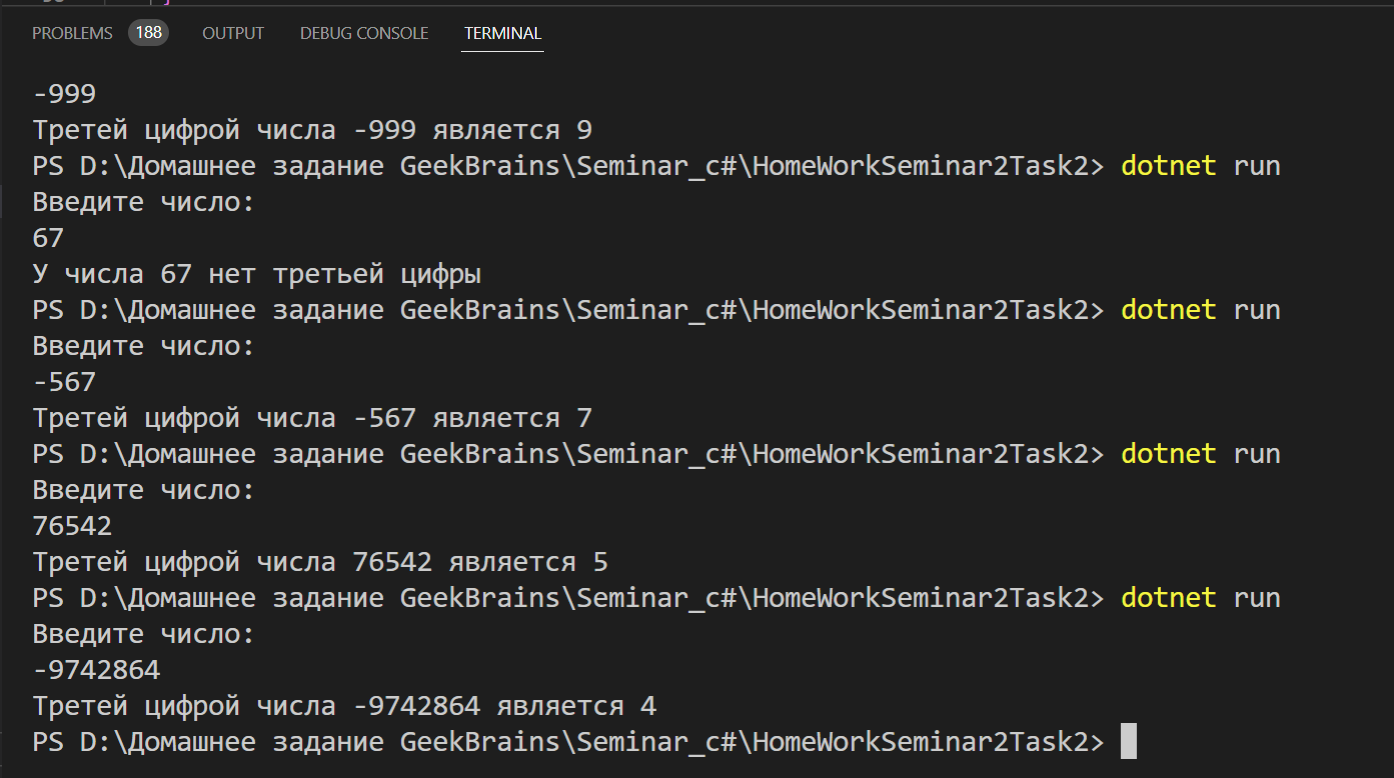
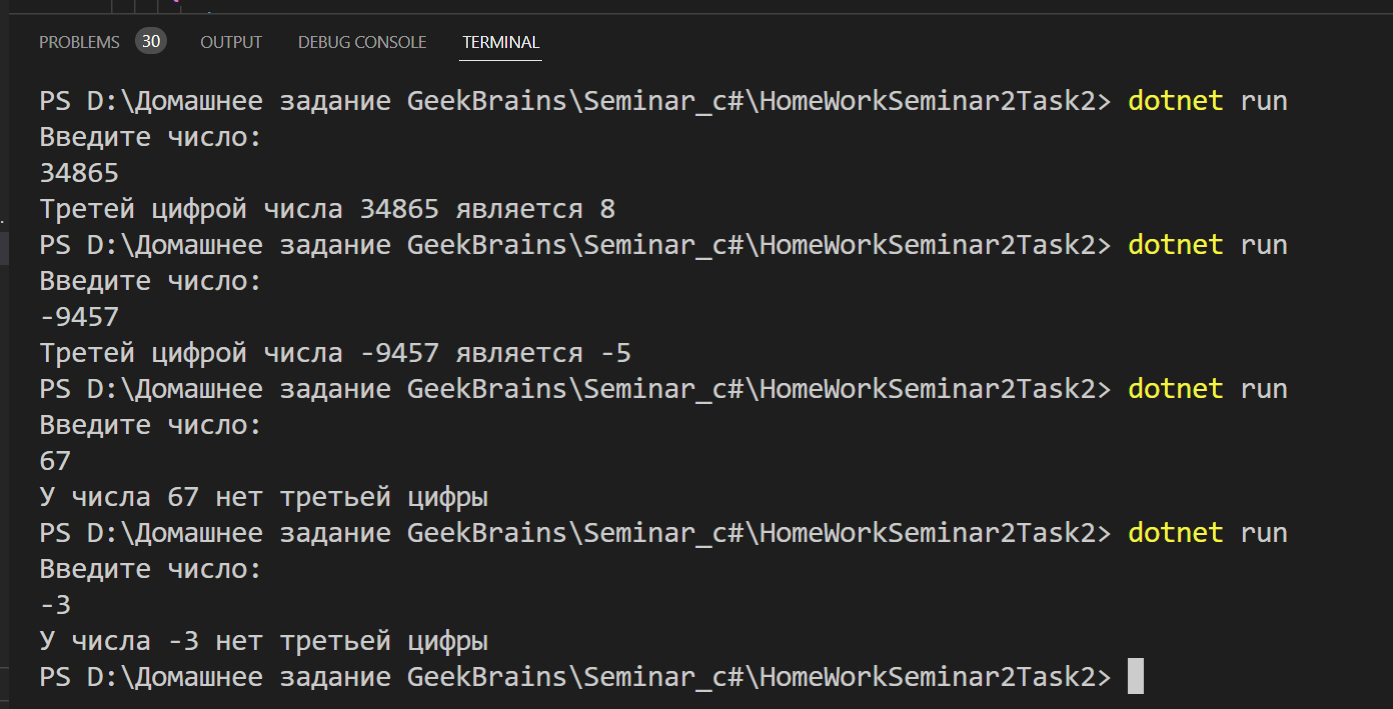
Add Math.Abs() in HomeWorkSeminar2Task2

diff --git a/HomeWorkSeminar2Task2/Program.cs b/HomeWorkSeminar2Task2/Program.cs
@@ -17,7 +17,7 @@ if(number < 100 && number > -100)
 }
 else 
 {
-    int devision = number / 100;
+    int devision = Math.Abs(number) / 100;
     int score = 0;
     while(devision > 1)
     {
@@ -40,12 +40,5 @@ else
        {
         thirdNumber = number % 10;
        }
-       if(thirdNumber > 0)
-       {
         Console.WriteLine($"Третей цифрой числа {number} является {thirdNumber}");
-       }
-       else
-       {
-        Console.WriteLine($"Третей цифрой числа {number} является {-thirdNumber}");
-       }
 }
